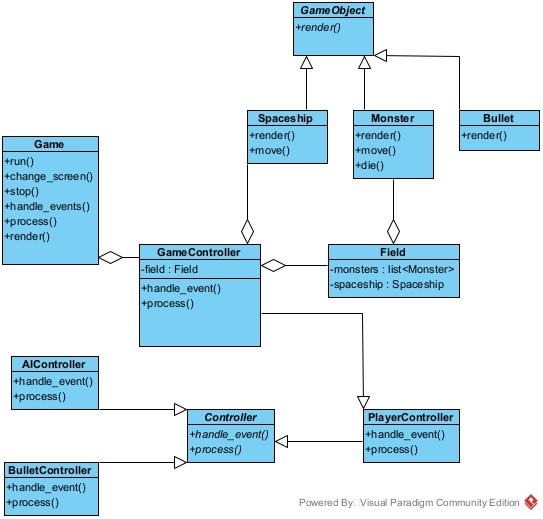
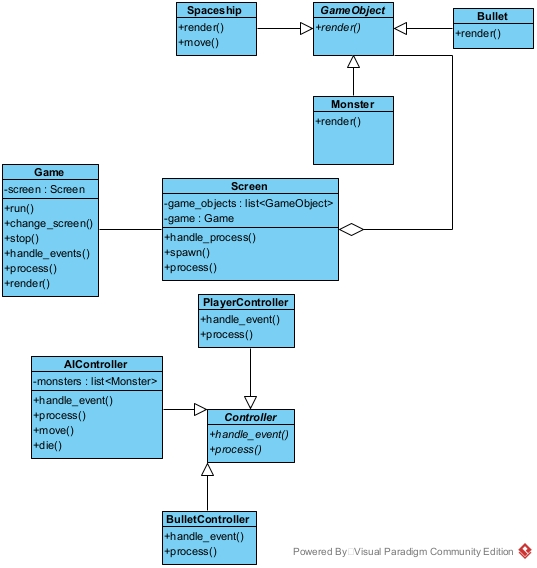
Changed Class Diagram

diff --git a/spaceship.py b/spaceship.py
@@ -1,8 +1,24 @@
 from game_object import GameObject
+import pygame
 
 class Spaceship(GameObject):
+    def __init__(self, x: int, y: int, height: int, width: int, r: int, g: int, b: int) -> None:
+        self.x = x
+        self.y = y
+        self.height = height
+        self.width = width
+        self.border = 0
+        self.color = (r, g, b)
+        self.x_direction = 0
+        self.speed = 0.5
+
     def move(self):
-        pass
+        if event.type == pygame.KEYDOWN:
+            if event.key == pygame.K_d:
+                self.x_direction = 1
+            elif event.key == pygame.K_a:
+                self.x_direction = -1
+
 
     def render(self):
         pass

diff --git a/game.py b/game.py
@@ -1,7 +1,19 @@
-from game_controller import GameController
+from player_controller import PlayerController
 import pygame
+from screen import Screen
 
 class Game:
+    SCREEN_WIDTH = 800
+    SCREEN_HEIGHT = 800
+
+    screen: Screen
+
+    def __init__(self):
+        pygame.init()
+
+        self.window = pygame.display.set_mode((Game.SCREEN_WIDTH, Game.SCREEN_HEIGHT))
+        self.is_running = False
+
     def run(self):
         pass
 

diff --git a/game_object.py b/game_object.py
@@ -5,3 +5,7 @@ class GameObject(Protocol):
     @abstractmethod
     def render(self):
         pass
+
+    @abstractmethod
+    def move(self, x: int, y: int):
+        pass

diff --git a/screen.py b/screen.py
@@ -1,0 +1,8 @@
+from game import Game
+from game_object import GameObject
+
+class Screen:
+    game: Game
+    game_object: list[GameObject]
+
+    
